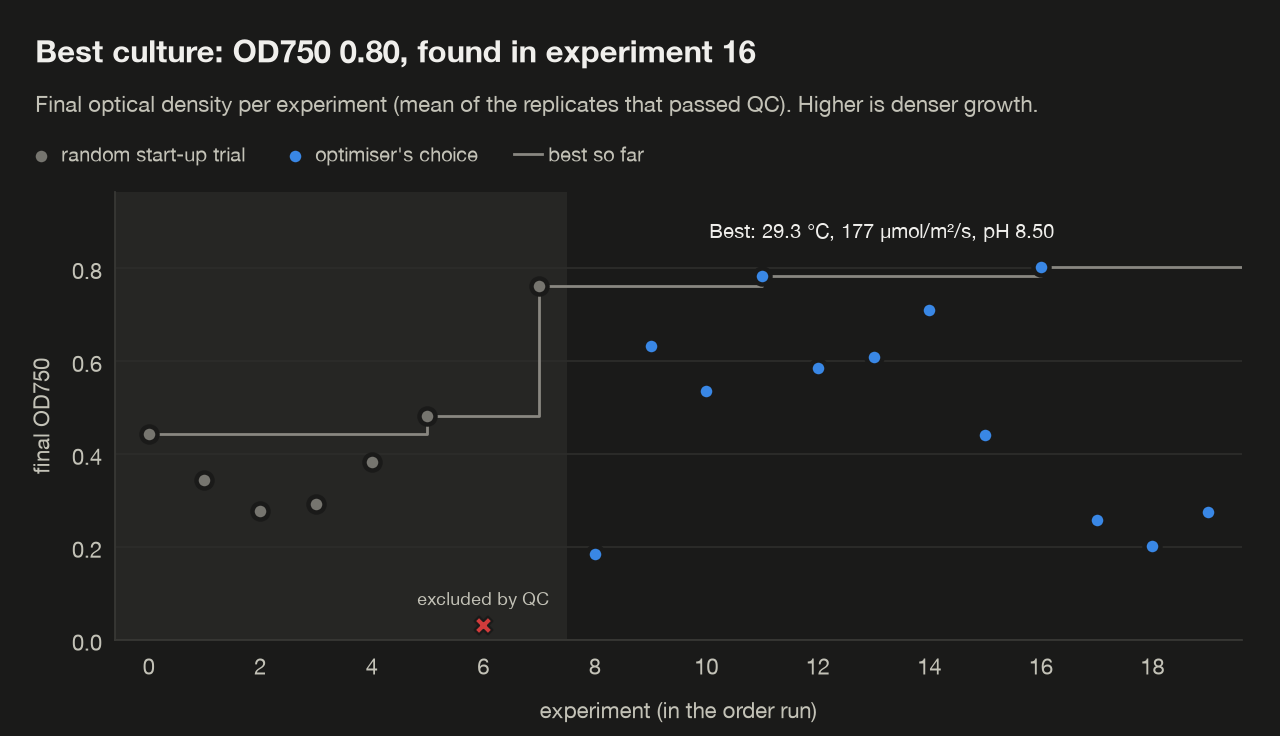
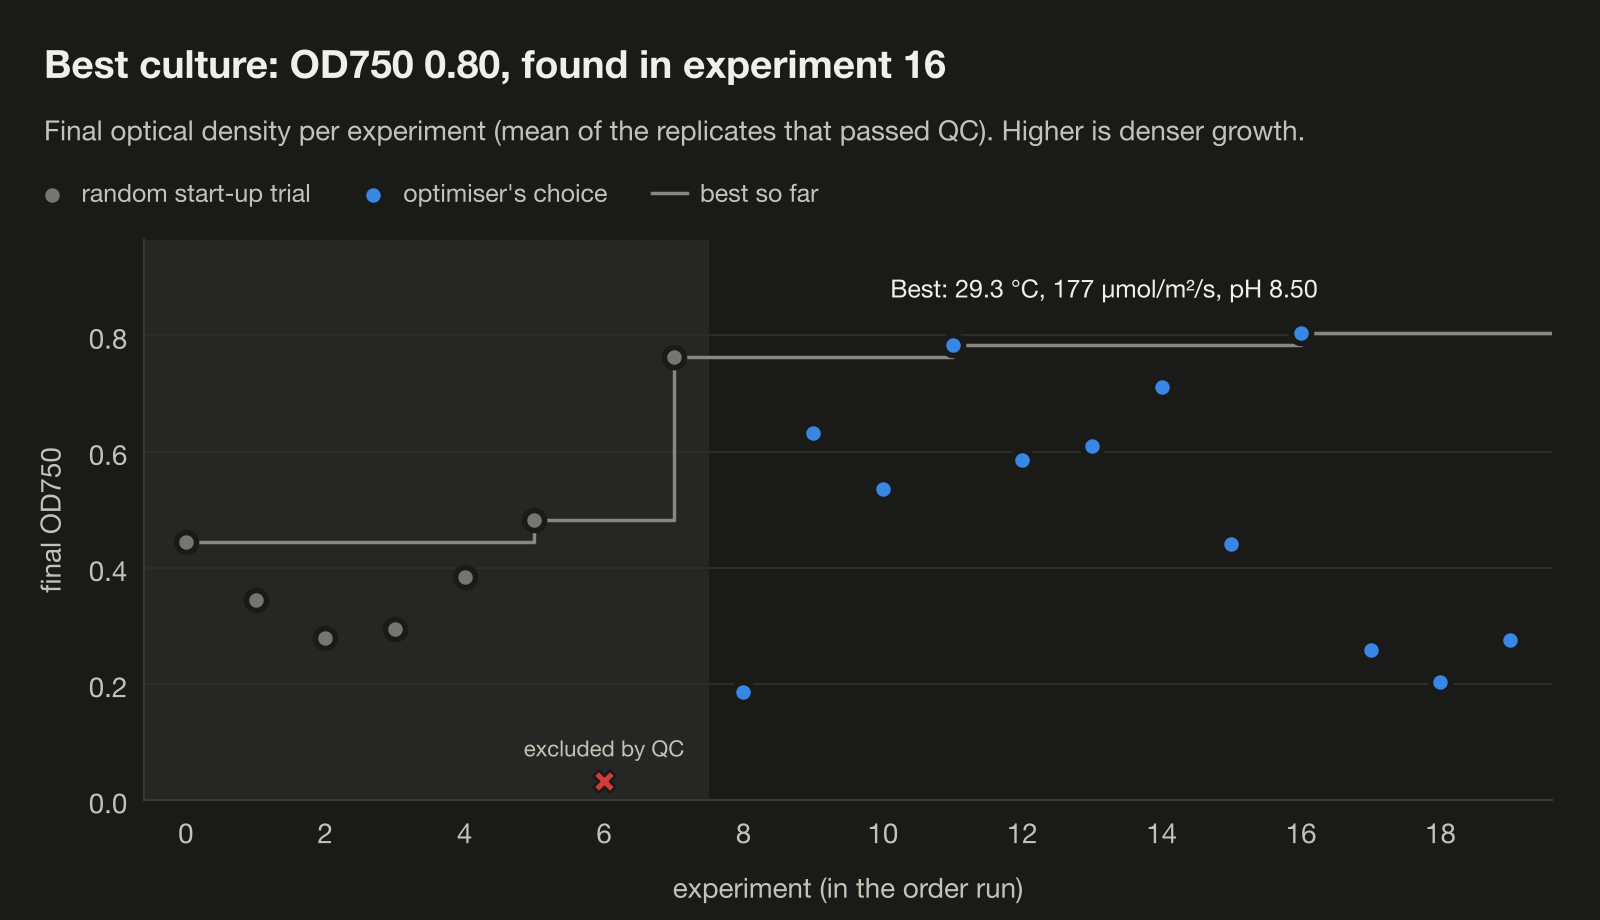
Render chart text without hinting, at 200 dpi
FreeType hinting snapped Helvetica's outlines to the pixel grid, which
squared off curves and made strokes uneven. Draw true outlines instead,
at a higher resolution, and give legend labels a little more room.

diff --git a/algae_sim/autolab/plot_campaign.py b/algae_sim/autolab/plot_campaign.py
@@ -177,6 +177,10 @@ def _style(plt: Any, theme: dict[str, str]) -> None:
     plt.rcParams.update({
         "font.family": ["Helvetica Neue", "Arial", "DejaVu Sans"],
         "font.size": 10,
+        # Hinting snaps glyph outlines to the pixel grid, which squares off the
+        # curves of Helvetica at chart sizes ("e" reads as a box). Draw the true
+        # outlines instead, at a resolution high enough to stay sharp.
+        "text.hinting": "no_hinting",
         "figure.facecolor": theme["surface"],
         "axes.facecolor": theme["surface"],
         "savefig.facecolor": theme["surface"],
@@ -206,6 +210,7 @@ def _frame(ax: Any, theme: dict[str, str]) -> None:
 
 # Layout is in inches, not figure fractions, so every chart has the same margins
 # and the same gaps between title, subtitle, legend and plot whatever its height.
+DPI = 200  # GitHub scales the PNGs down to the column width, so extra pixels help
 LEFT_IN = 0.22  # left edge of title, subtitle, legend and notes
 TITLE_TOP_IN = 0.2
 SUBTITLE_TOP_IN = 0.56
@@ -234,7 +239,7 @@ def _legend(fig: Any, handles: list[Any], labels: list[str], top_in: float) -> f
     """One row of legend, aligned with the title; return where it ends (inches)."""
     fig.legend(handles, labels, loc="upper left",
                bbox_to_anchor=(_from_left(fig, LEFT_IN - 0.05), _from_top(fig, top_in)),
-               ncols=len(labels), fontsize=9, handletextpad=0.3, columnspacing=1.8,
+               ncols=len(labels), fontsize=9, handletextpad=0.5, columnspacing=1.8,
                borderaxespad=0, borderpad=0, handlelength=1.4)
     return top_in + LINE_IN
 
@@ -472,7 +477,7 @@ def plot(
             ("qc", qc_chart(experiments, theme)),
         ):
             path = output_dir / f"{name}{suffix}.png"
-            fig.savefig(path, dpi=160)
+            fig.savefig(path, dpi=DPI)
             plt.close(fig)
             written.append(path)
     return written
